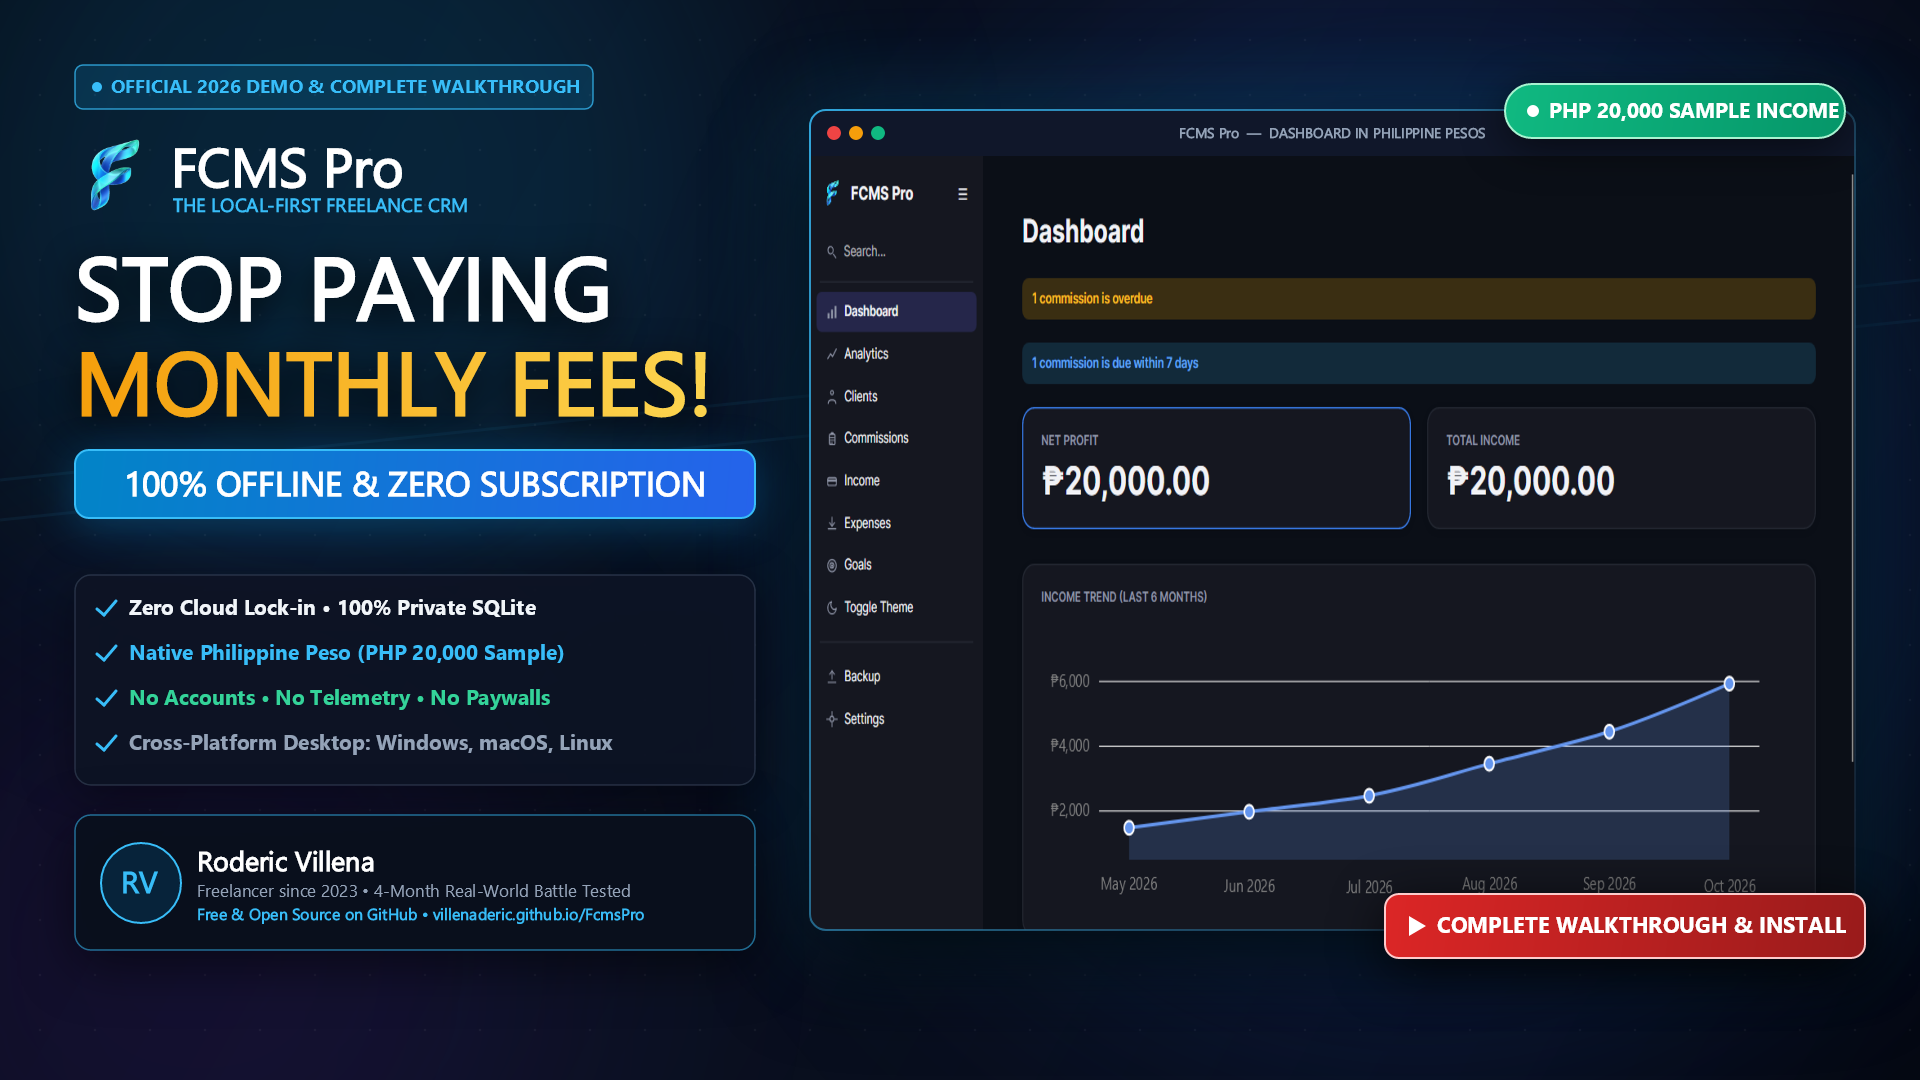
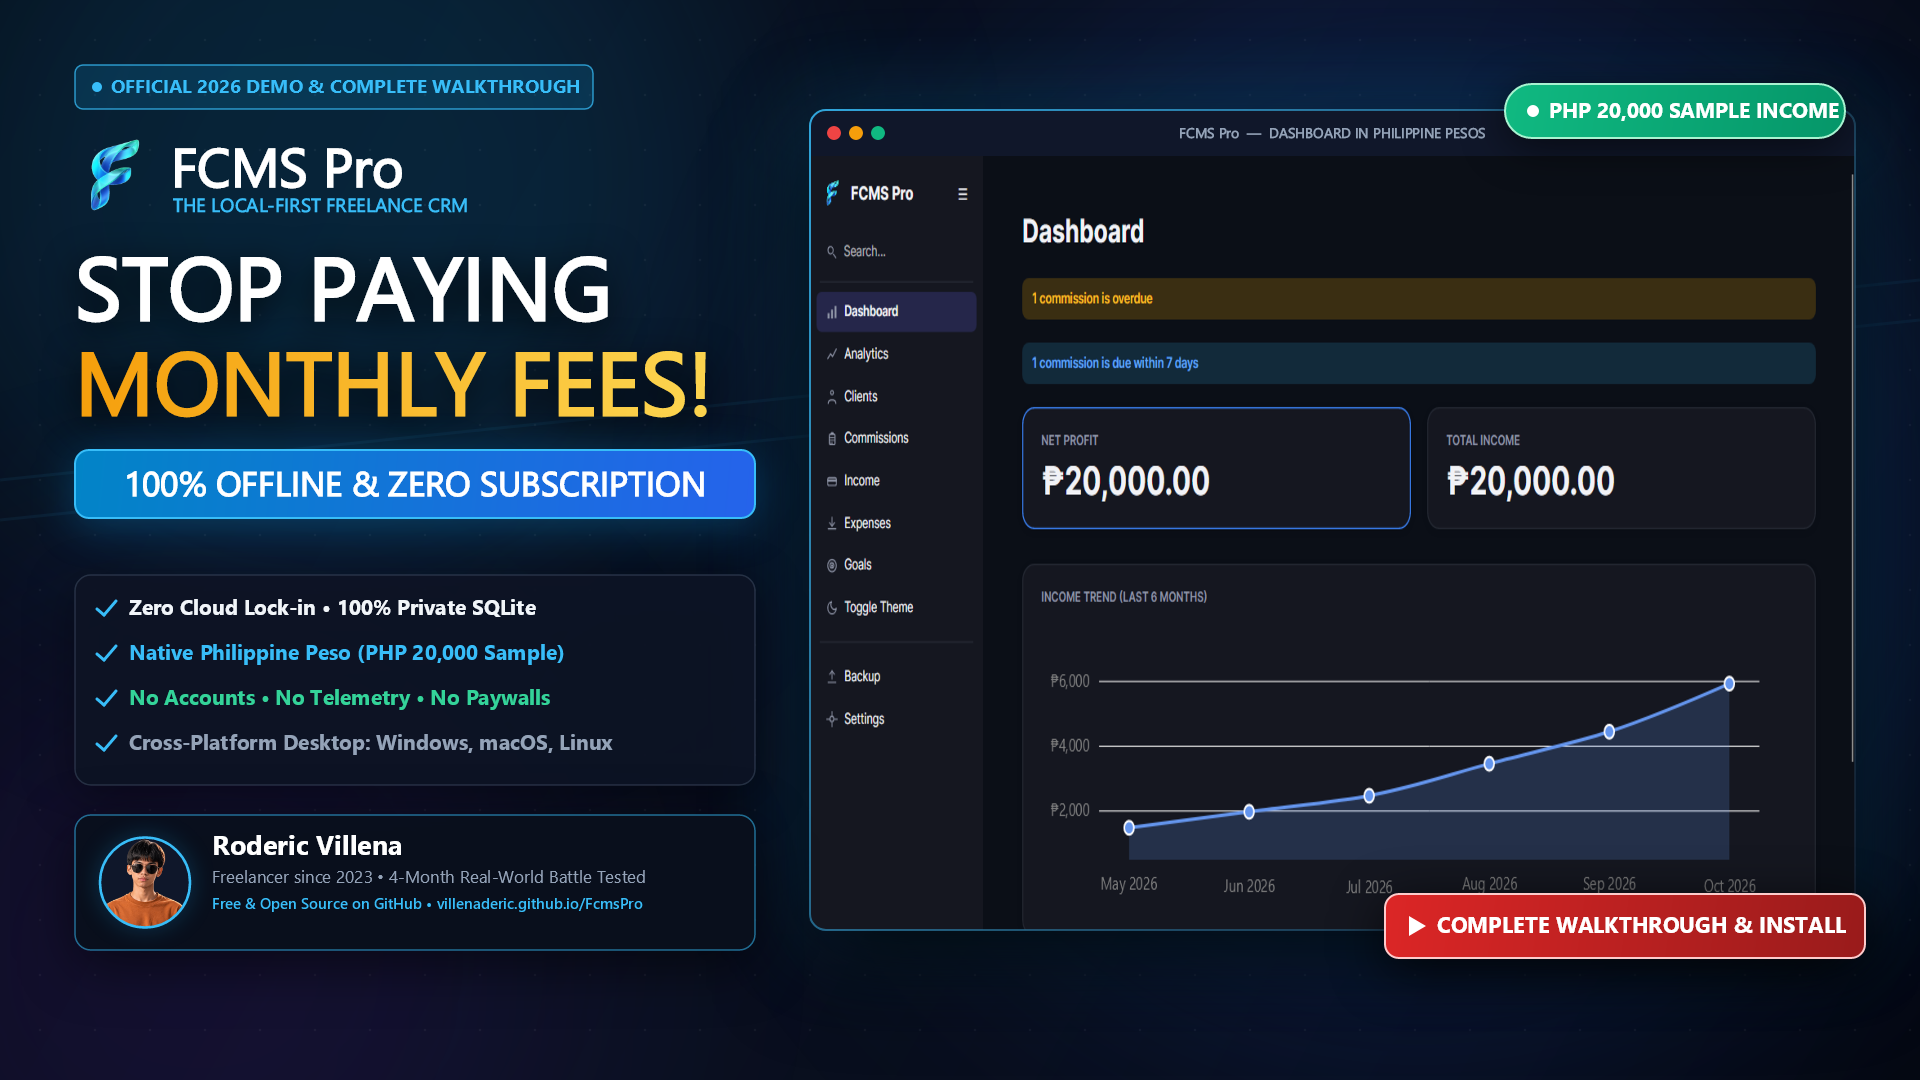
feat(thumbnail): add creator portrait photo to YouTube thumbnail

Changed region(s): [[0.0312, 0.7639, 0.3438, 0.8556]]

diff --git a/tools/VideoMaker/Program.cs b/tools/VideoMaker/Program.cs
@@ -1714,24 +1714,92 @@ public static class Program
             canvas.DrawRoundRect(cRect, 16, 16, credBg);
             canvas.DrawRoundRect(cRect, 16, 16, credBorder);
 
-            // Circular Avatar Badge with RV initials
-            float avX = leftX + 26;
-            float avY = credY + 28;
-            using var avBg = new SKPaint { Color = new SKColor(2, 132, 199, 45), IsAntialias = true };
-            using var avBorder = new SKPaint { Color = new SKColor(56, 189, 248), IsStroke = true, StrokeWidth = 2, IsAntialias = true };
-            using var avText = new SKPaint { Color = new SKColor(56, 189, 248), TextSize = 30, FakeBoldText = true, IsAntialias = true };
-            canvas.DrawCircle(avX + 40, avY + 40, 40, avBg);
-            canvas.DrawCircle(avX + 40, avY + 40, 40, avBorder);
-            canvas.DrawText("RV", avX + 20, avY + 50, avText);
+            // Author Photo Avatar
+            var photoPath = Path.Combine(rootDir, "site", "assets", "img", "roderic-villena.png");
+            float avCenterX = leftX + 70;
+            float avCenterY = credY + credH / 2f;
+            float avRadius = 45;
 
-            // Text
-            using var authorName = new SKPaint { Color = SKColors.White, TextSize = 27, FakeBoldText = true, IsAntialias = true };
-            using var authorRole = new SKPaint { Color = new SKColor(148, 163, 184), TextSize = 17, IsAntialias = true };
-            using var authorSub = new SKPaint { Color = new SKColor(56, 189, 248), TextSize = 16, FakeBoldText = true, IsAntialias = true };
+            // Background glow & dark disc behind photo
+            using (var avGlow = new SKPaint
+            {
+                Color = new SKColor(14, 165, 233, 70),
+                ImageFilter = SKImageFilter.CreateBlur(12, 12)
+            })
+            {
+                canvas.DrawCircle(avCenterX, avCenterY, avRadius, avGlow);
+            }
 
-            canvas.DrawText("Roderic Villena", avX + 96, avY + 28, authorName);
-            canvas.DrawText("Freelancer since 2023 • 4-Month Real-World Battle Tested", avX + 96, avY + 54, authorRole);
-            canvas.DrawText("Free & Open Source on GitHub • villenaderic.github.io/FcmsPro", avX + 96, avY + 77, authorSub);
+            using (var avDisc = new SKPaint { Color = new SKColor(15, 23, 42), IsAntialias = true })
+            {
+                canvas.DrawCircle(avCenterX, avCenterY, avRadius, avDisc);
+            }
+
+            bool drawnPhoto = false;
+            if (File.Exists(photoPath))
+            {
+                using var photoBmp = SKBitmap.Decode(photoPath);
+                if (photoBmp != null)
+                {
+                    // Crop centered on Roderic's face & sunglasses (800x800 source)
+                    var srcCrop = new SKRect(70, 10, 730, 670);
+                    var destRect = new SKRect(avCenterX - avRadius, avCenterY - avRadius, avCenterX + avRadius, avCenterY + avRadius);
+
+                    using var clipPath = new SKPath();
+                    clipPath.AddCircle(avCenterX, avCenterY, avRadius);
+                    canvas.Save();
+                    canvas.ClipPath(clipPath, antialias: true);
+                    canvas.DrawBitmap(photoBmp, srcCrop, destRect, new SKPaint { FilterQuality = SKFilterQuality.High });
+                    canvas.Restore();
+                    drawnPhoto = true;
+                }
+            }
+
+            if (!drawnPhoto)
+            {
+                using var avFallback = new SKPaint { Color = new SKColor(56, 189, 248), TextSize = 30, FakeBoldText = true, IsAntialias = true };
+                canvas.DrawText("RV", avCenterX - 20, avCenterY + 10, avFallback);
+            }
+
+            // Crisp neon cyan outer ring
+            using (var avRing = new SKPaint
+            {
+                Color = new SKColor(56, 189, 248),
+                IsStroke = true,
+                StrokeWidth = 2.5f,
+                IsAntialias = true
+            })
+            {
+                canvas.DrawCircle(avCenterX, avCenterY, avRadius, avRing);
+            }
+
+            // Text beside Photo
+            float textX = avCenterX + avRadius + 22;
+            using var authorName = new SKPaint
+            {
+                Color = SKColors.White,
+                TextSize = 27,
+                Typeface = SKTypeface.FromFamilyName("Segoe UI", SKFontStyleWeight.Bold, SKFontStyleWidth.Normal, SKFontStyleSlant.Upright),
+                IsAntialias = true
+            };
+            using var authorRole = new SKPaint
+            {
+                Color = new SKColor(148, 163, 184),
+                TextSize = 17,
+                Typeface = SKTypeface.FromFamilyName("Segoe UI", SKFontStyleWeight.Normal, SKFontStyleWidth.Normal, SKFontStyleSlant.Upright),
+                IsAntialias = true
+            };
+            using var authorSub = new SKPaint
+            {
+                Color = new SKColor(56, 189, 248),
+                TextSize = 15,
+                Typeface = SKTypeface.FromFamilyName("Segoe UI", SKFontStyleWeight.SemiBold, SKFontStyleWidth.Normal, SKFontStyleSlant.Upright),
+                IsAntialias = true
+            };
+
+            canvas.DrawText("Roderic Villena", textX, credY + 40, authorName);
+            canvas.DrawText("Freelancer since 2023 • 4-Month Real-World Battle Tested", textX, credY + 68, authorRole);
+            canvas.DrawText("Free & Open Source on GitHub • villenaderic.github.io/FcmsPro", textX, credY + 94, authorSub);
         }
 
         // ==========================================
